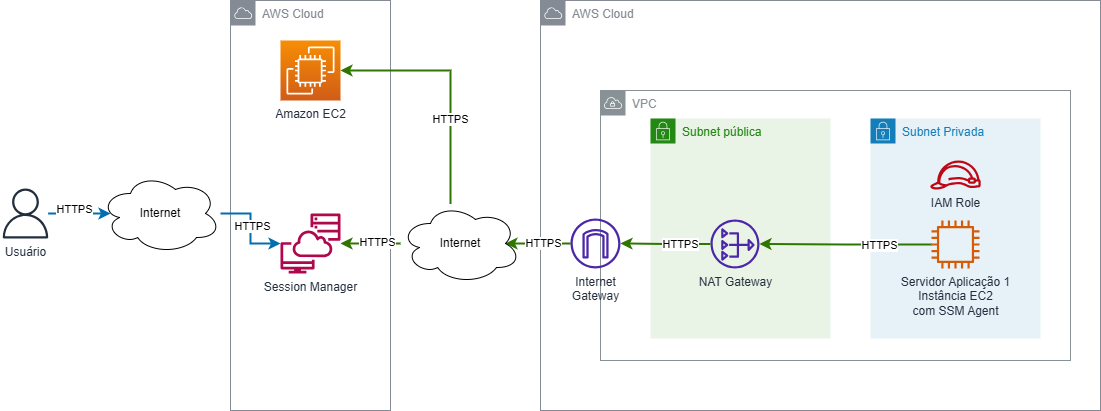
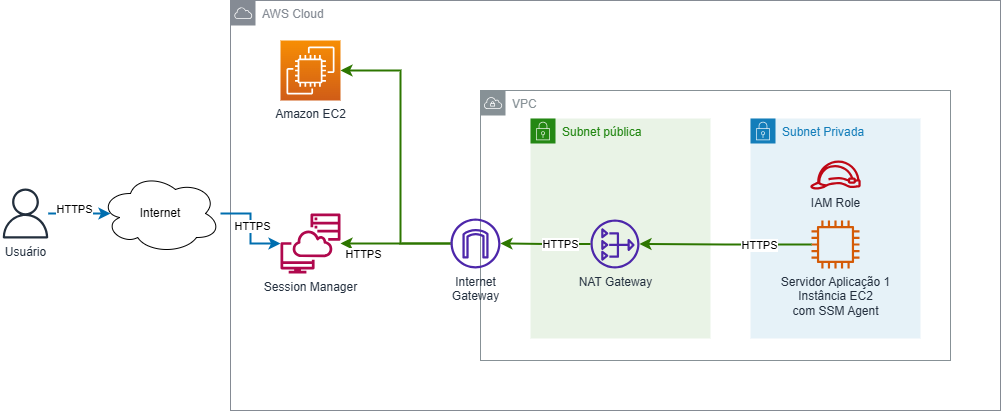
Explicação mais clara sobre conectividade com endpoints públicos a partir de uma subnet privada

diff --git a/content/blog/2023/acessando-recursos-remotamente-em-uma-vpc-na-AWS-parte-3.md b/content/blog/2023/acessando-recursos-remotamente-em-uma-vpc-na-AWS-parte-3.md
@@ -13,12 +13,12 @@ Nesse post, será mostrado como o uso de um serviço gerenciado da AWS, o Sessio
 
 O [**Session Manager**](https://docs.aws.amazon.com/systems-manager/latest/userguide/session-manager.html) é um serviço gerenciado da AWS que faz parte do "guarda-chuvas" do produto **AWS Systems Manager**. O Session Manager permite acessar os recursos de uma VPC remotamente sem a necessidade de um Bastion Host e sem que os recursos precisem ficar em uma subnet pública. O controle de acesso é integrado com o serviço de IAM da AWS, ou seja, o usuário se autentica com as mesmas credenciais de acesso à AWS, não sendo necessário o uso e gerenciamento de pares de chaves. Por ser um serviço gerenciado, não é preciso se preocupar e gastar esforço em manter uma infraestrutura adicional. Além disso, [não há custos adicionais para uso do Session Manager](https://www.amazonaws.cn/en/systems-manager/pricing/) em si, (mas há custo para a infraestrutura envolvida). O diagrama a seguir mostra o cenário de exemplo que será implementado.
 
-{{< figure src="/img/2023/AcessoRemotoAWS-3-sessionmanager.png" align="center" alt="Diagrama de arquitetura do cenário de acesso via Session Manager. O diagrama mostra um usuário acessando o serviço do Session Manager, através da Internet. O SSM Agent, instalado em uma instância EC2 com uma IAM Role configurada, também acessa o serviço do Session Manager e o serviço Amazon EC2 via Internet." >}}
+{{< figure src="/img/2023/AcessoRemotoAWS-3-sessionmanager.png" align="center" alt="Diagrama de arquitetura do cenário de acesso via Session Manager. O diagrama mostra um usuário acessando o serviço do Session Manager, através da Internet. O SSM Agent, instalado em uma instância EC2 com uma IAM Role configurada, também acessa o serviço do Session Manager e o serviço Amazon EC2 na AWS." >}}
 
 Note que:
 * O usuário acessa via Internet somente o Session Manager, que é o serviço gerenciado da AWS. Não há acesso direto à instância EC2. O acesso do usuário pode ser tanto via console de gerenciamento da AWS ou por linha de comando, conforme será mostrado adiante.
-* A comunicação do servidor de aplicação com o Session Manager ocorre via [SSM Agent](https://docs.aws.amazon.com/systems-manager/latest/userguide/ssm-agent.html), que é um software instalado na instância EC2. Para seu correto funcionamento, o SSM Agent precisa se comunicar com os serviços do Session Manager e do Amazon EC2. Nesse cenário, a comunicação ocorre via Internet. Além disso, o SSM Agent precisa ter as devidas permissões para se comunicar com esses serviços. Para isso, a instância EC2 deve ser configurada com uma IAM Role que dê essas permissões.
-* A instância EC2 encontra-se em uma subnet privada. Como o SSM Agent necessita se comunicar com os serviços do Session Manager e do Amazon EC2, a instância EC2 precisa de acesso de saída para Internet. Isso é fornecido através de um NAT Gateway na subnet pública. Dessa forma, qualquer servidor de aplicação na subnet privada consegue acessar recursos na Internet sem que fique exposto. É sempre o SSM Agent que inicia a conexão com os serviços do Session Manager e do Amazon EC2.
+* A comunicação do servidor de aplicação com o Session Manager ocorre via [SSM Agent](https://docs.aws.amazon.com/systems-manager/latest/userguide/ssm-agent.html), que é um software instalado na instância EC2. Para seu correto funcionamento, o SSM Agent precisa se comunicar com os serviços do Session Manager e do Amazon EC2. Nesse cenário, a comunicação ocorre via endpoints públicos desses serviços. Além disso, o SSM Agent precisa ter as devidas permissões para se comunicar com esses serviços. Para isso, a instância EC2 deve ser configurada com uma IAM Role que dê essas permissões.
+* A instância EC2 encontra-se em uma subnet privada. Como o SSM Agent necessita se comunicar com os serviços do Session Manager e do Amazon EC2 através de seus endpoints públicos, a instância EC2 precisa de acesso de saída para Internet. Isso é fornecido através de um NAT Gateway na subnet pública. Apesar da necessidade de saída para Internet, esse tráfego se mantém na rede da AWS, pois estão sendo acessados endpoints públicos da própria AWS. É sempre o SSM Agent que inicia a conexão com os serviços do Session Manager e do Amazon EC2.
 * Toda comunicação, tanto do usuário com o Session Manager, quanto da instância EC2 com o Session Manager e o serviço Amazon EC2, ocorre via HTTPS.
 
 ### Preparando o ambiente
